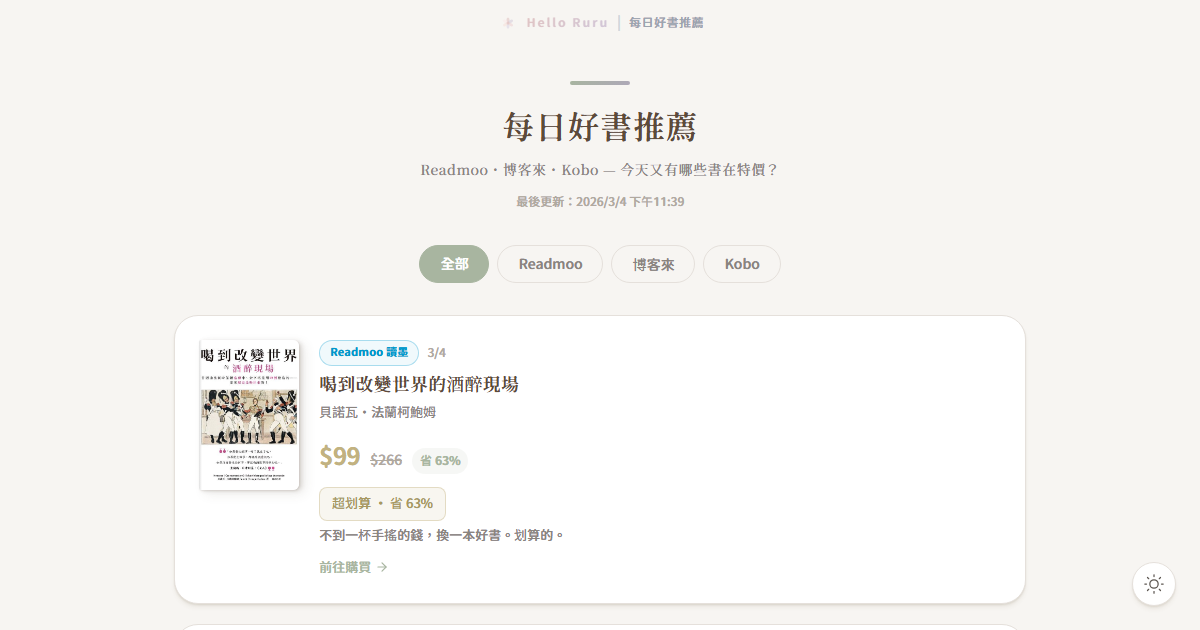
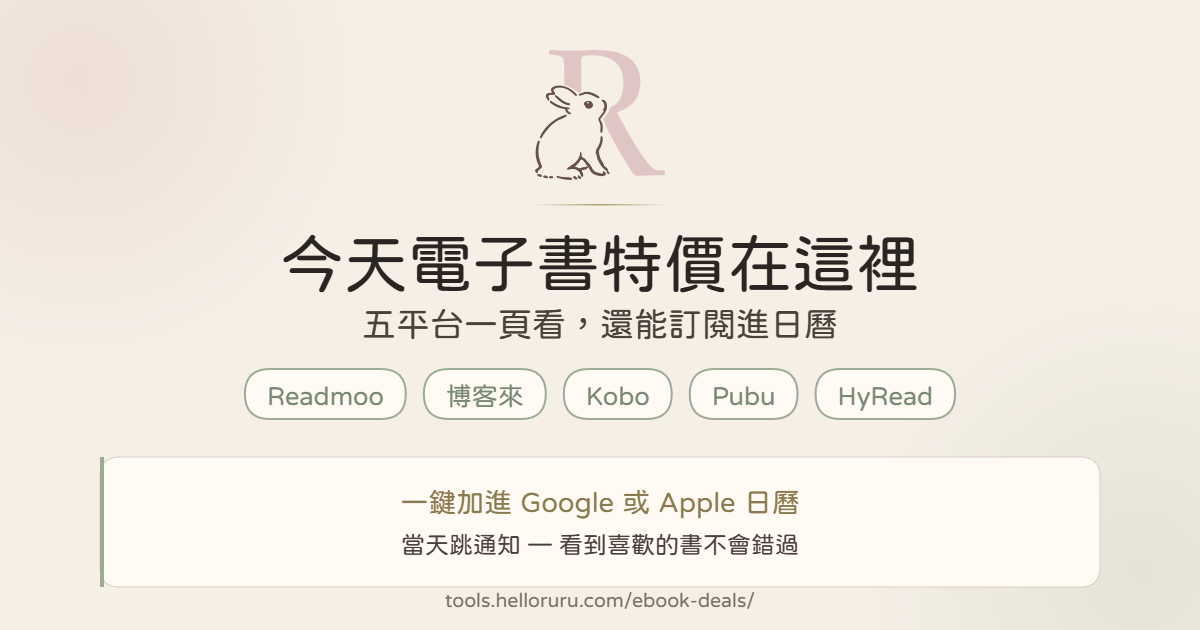
ebook-deals: title/meta to 5-platform, JSON-LD update, og rebuild, layout fixes
- title/description/og/twitter rewritten for 5 platforms + calendar subscription
- JSON-LD offerCount 15+ → 50+, lowPrice 99 → 50, add highPrice
- og-image.png regenerated via canvas (jf 粉圓 + 兔子 logo + 防老花眼配色)
- subscribe-guide adds 「訂閱完之後怎麼用」 (where to look, refresh frequency, hourly auto-fetch on Apple)
- subscribe card layout fix: minmax 220 → 260, btn padding/font reduced, flex-wrap

diff --git a/public/ebook-deals/index.html b/public/ebook-deals/index.html
@@ -11,13 +11,13 @@
     gtag('config', 'G-TQYREKR9EV');
   </script>
   <meta name="viewport" content="width=device-width, initial-scale=1.0">
-  <title>每日好書推薦 — 三平台電子書特價 | HelloRuru</title>
-  <meta name="description" content="Readmoo、博客來、Kobo 電子書每日特價一覽，搜尋比價找最便宜的電子書。每天更新，一頁看完所有好康。">
+  <title>每日電子書特價 — Readmoo、博客來、Kobo、Pubu、HyRead 五平台一頁看 | HelloRuru</title>
+  <meta name="description" content="五大電子書平台每日特價一頁看完。讀墨 99、博客來 50、Kobo 週選書、Pubu 限時 99、HyRead 週末快閃，全部自動更新。喜歡的書點一下加進 Google 或 Apple 日曆，當天就會跳通知。">
   <link rel="canonical" href="https://tools.helloruru.com/ebook-deals/">
 
   <!-- Open Graph -->
-  <meta property="og:title" content="每日好書推薦 — 三平台電子書特價">
-  <meta property="og:description" content="Readmoo、博客來、Kobo 電子書每日特價，一頁看完今天所有好康！">
+  <meta property="og:title" content="今天電子書特價在這裡 — 五平台一頁看，還能訂閱進日曆">
+  <meta property="og:description" content="Readmoo、博客來、Kobo、Pubu、HyRead — 看到喜歡的書點一下加日曆，當天跳通知不會錯過。">
   <meta property="og:type" content="website">
   <meta property="og:url" content="https://tools.helloruru.com/ebook-deals/">
   <meta property="og:image" content="https://tools.helloruru.com/ebook-deals/og-image.png">
@@ -26,8 +26,8 @@
 
   <!-- Twitter Card -->
   <meta name="twitter:card" content="summary_large_image">
-  <meta name="twitter:title" content="每日好書推薦 — 三平台電子書特價">
-  <meta name="twitter:description" content="Readmoo、博客來、Kobo 電子書每日特價，一頁看完今天所有好康！">
+  <meta name="twitter:title" content="今天電子書特價在這裡 — 五平台一頁看，還能訂閱進日曆">
+  <meta name="twitter:description" content="Readmoo、博客來、Kobo、Pubu、HyRead — 看到喜歡的書點一下加日曆，當天跳通知不會錯過。">
   <meta name="twitter:image" content="https://tools.helloruru.com/ebook-deals/og-image.png">
 
   <!-- JSON-LD -->
@@ -35,8 +35,8 @@
   {
     "@context": "https://schema.org",
     "@type": "WebApplication",
-    "name": "每日好書推薦",
-    "description": "Readmoo、博客來、Kobo 電子書每日特價一覽，搜尋比價找最便宜的電子書。",
+    "name": "每日電子書特價",
+    "description": "Readmoo、博客來、Kobo、Pubu、HyRead 五大電子書平台每日特價一覽，並可訂閱到 Google 或 Apple 日曆。",
     "url": "https://tools.helloruru.com/ebook-deals/",
     "applicationCategory": "ShoppingApplication",
     "operatingSystem": "Web",
@@ -48,8 +48,9 @@
     "offers": {
       "@type": "AggregateOffer",
       "priceCurrency": "TWD",
-      "lowPrice": "99",
-      "offerCount": "15+"
+      "lowPrice": "50",
+      "highPrice": "300",
+      "offerCount": "50+"
     }
   }
   </script>
@@ -719,8 +720,8 @@
     }
     .subscribe-feeds {
       display: grid;
-      grid-template-columns: repeat(auto-fit, minmax(220px, 1fr));
-      gap: 12px;
+      grid-template-columns: repeat(auto-fit, minmax(260px, 1fr));
+      gap: 14px;
       margin-bottom: 32px;
       text-align: left;
     }
@@ -778,17 +779,19 @@
     }
     .feed-card-actions {
       display: flex;
-      gap: 8px;
+      gap: 6px;
       margin-top: auto;
+      flex-wrap: wrap;
     }
     .feed-btn {
-      flex: 1;
+      flex: 1 1 70px;
+      min-width: 0;
       display: inline-flex;
       align-items: center;
       justify-content: center;
-      gap: 6px;
-      padding: 8px 12px;
-      font-size: 15px;
+      gap: 5px;
+      padding: 8px 6px;
+      font-size: 14px;
       font-weight: 400;
       font-family: var(--font-body);
       border-radius: var(--radius-sm);
@@ -798,6 +801,7 @@
       cursor: pointer;
       text-decoration: none;
       transition: all var(--transition-fast);
+      white-space: nowrap;
     }
     .feed-btn:hover {
       border-color: var(--color-sage);
@@ -1509,7 +1513,7 @@
     // === Fetch Deals ===
     async function fetchDeals(endpoint = '/api/deals') {
       try {
-        const res = await fetch(API_BASE + endpoint + '?v=20260428-4');
+        const res = await fetch(API_BASE + endpoint + '?v=20260428-5');
         if (!res.ok) throw new Error('HTTP ' + res.status);
         const data = await res.json();
         allDealsData = data;

diff --git a/public/ebook-deals/subscribe-guide.html b/public/ebook-deals/subscribe-guide.html
@@ -11,12 +11,12 @@
     gtag('config', 'G-TQYREKR9EV');
   </script>
   <meta name="viewport" content="width=device-width, initial-scale=1.0">
-  <title>怎麼訂閱電子書特價到我的日曆？— 完整使用說明 | HelloRuru</title>
-  <meta name="description" content="把 Readmoo、博客來、Kobo 每日電子書特價自動同步到 Google 日曆或 Apple 日曆。Windows / Mac / iPhone / Android 完整教學。">
+  <title>電子書特價怎麼訂閱進日曆？ — Google／Apple／iPhone／Android 完整教學 | HelloRuru</title>
+  <meta name="description" content="把五平台電子書每日特價自動同步進 Google 日曆或 Apple 日曆，當天跳通知提醒入手。Windows、Mac、iPhone、Android 一頁說清楚，含每小時自動更新設定教學。">
   <link rel="canonical" href="https://tools.helloruru.com/ebook-deals/subscribe-guide.html">
 
-  <meta property="og:title" content="怎麼訂閱電子書特價到我的日曆？— 完整使用說明">
-  <meta property="og:description" content="一條連結讓電子書特價自動進日曆，看到喜歡的書當天就跳通知。">
+  <meta property="og:title" content="電子書特價自動進日曆 — 看到喜歡的書當天就被提醒">
+  <meta property="og:description" content="iPhone 用 Apple 日曆超順、桌機用 Google 一鍵加。Windows / Mac / iPhone / Android 完整 4 裝置教學在這裡。">
   <meta property="og:type" content="article">
   <meta property="og:url" content="https://tools.helloruru.com/ebook-deals/subscribe-guide.html">
   <meta property="og:image" content="https://tools.helloruru.com/ebook-deals/og-image.png">
@@ -24,8 +24,8 @@
   <meta property="og:locale" content="zh_TW">
 
   <meta name="twitter:card" content="summary_large_image">
-  <meta name="twitter:title" content="怎麼訂閱電子書特價到我的日曆？">
-  <meta name="twitter:description" content="一條連結讓電子書特價自動進日曆。">
+  <meta name="twitter:title" content="電子書特價自動進日曆 — 看到喜歡的書當天就被提醒">
+  <meta name="twitter:description" content="iPhone 用 Apple 日曆超順、桌機用 Google 一鍵加。Windows / Mac / iPhone / Android 完整 4 裝置教學。">
   <meta name="twitter:image" content="https://tools.helloruru.com/ebook-deals/og-image.png">
 
   <script type="application/ld+json">